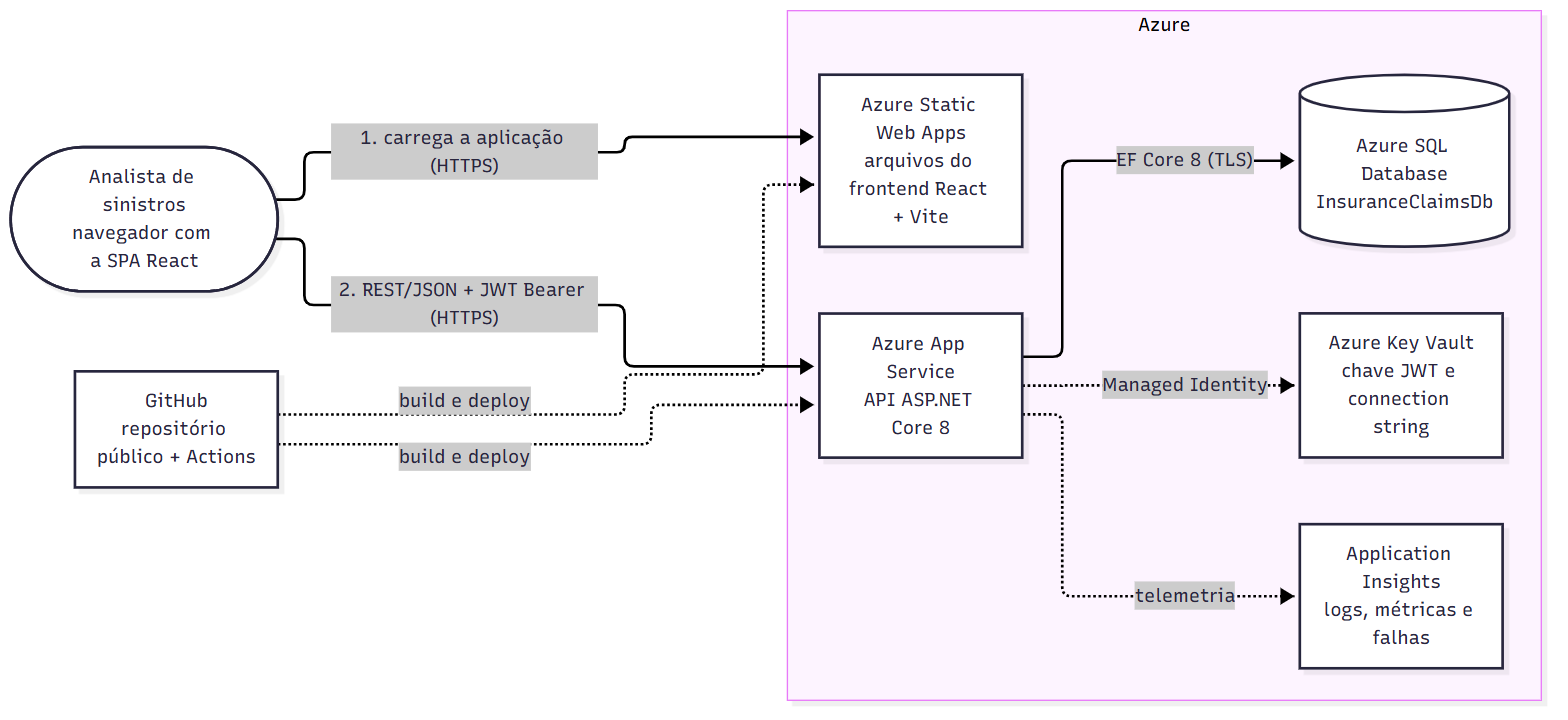
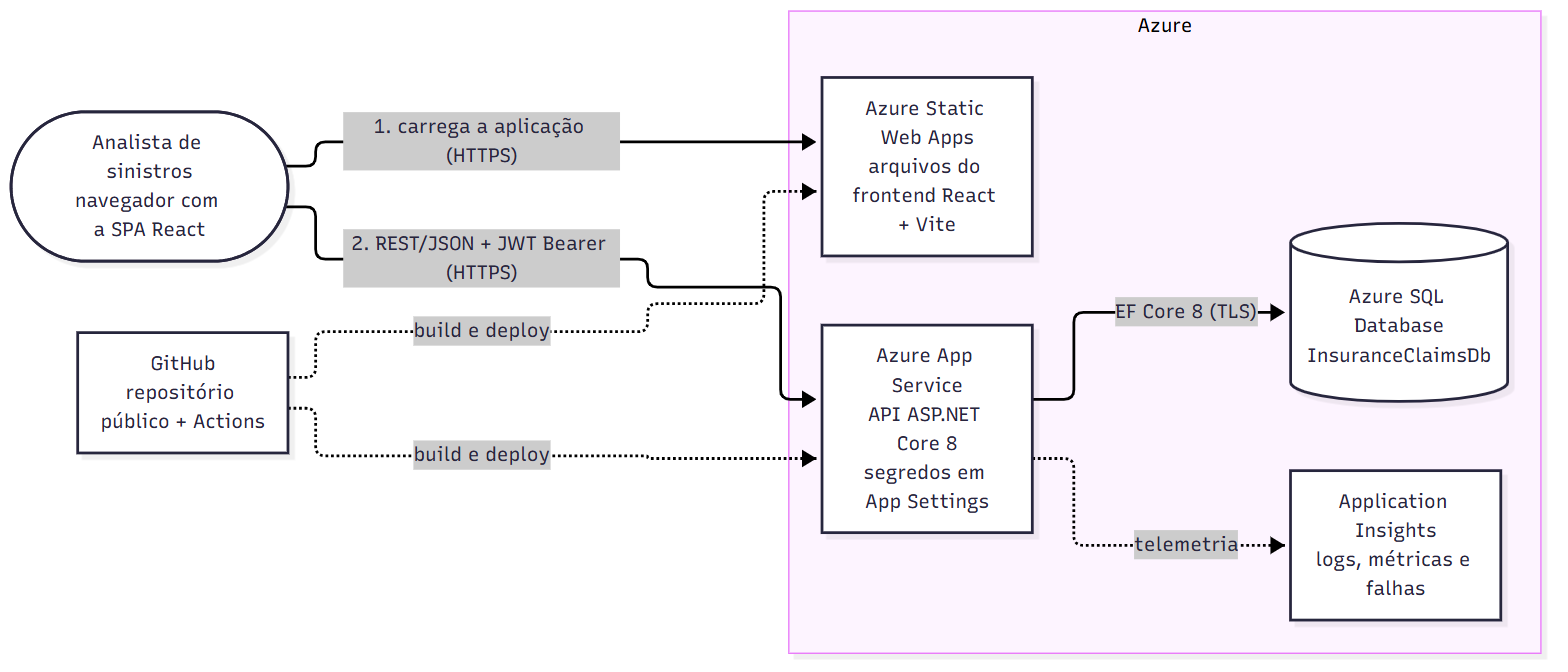
Docs: plano de migração para .NET 10 e desenho alinhado ao ambiente publicado

diff --git a/docs/migracao-dotnet10.md b/docs/migracao-dotnet10.md
@@ -1,0 +1,81 @@
+# Migração para .NET 10 LTS
+
+## Por quê
+
+O backend está no .NET 8 (LTS), cujo suporte termina em **10/11/2026**. Depois dessa data o runtime deixa de
+receber correções de segurança. O .NET 10 é a LTS atual, com suporte até novembro de 2028.
+
+A migração ficou fora da entrega do desafio por decisão de escopo: trocar runtime e pacotes em cima da entrega
+é risco sem retorno para o objetivo avaliado. Este documento deixa o caminho mapeado.
+
+## Escopo e esforço
+
+- Só o backend muda. O frontend (React/Vite) não depende da versão do .NET.
+- Quatro projetos (`Domain`, `Application`, `Infrastructure`, `Api`), sem uso de APIs obsoletas ou de
+  bibliotecas de terceiros além do Swashbuckle.
+- Esforço estimado: 1 a 2 horas, incluindo validação. A arquitetura em camadas mantém a mudança contida em
+  target framework e versões de pacotes; nenhuma regra de negócio é afetada.
+
+## Pré-requisitos
+
+- SDK do .NET 10 instalado (`dotnet --list-sdks` deve listar `10.0.x`).
+- API local parada, para o build não falhar por arquivo em uso.
+- Branch própria (`feat/dotnet-10`), para a `main` continuar publicável.
+
+## Passo a passo
+
+1. **Target framework**: nos quatro arquivos `.csproj`, trocar `<TargetFramework>net8.0</TargetFramework>`
+   por `<TargetFramework>net10.0</TargetFramework>`.
+
+2. **Pacotes** (`dotnet add package ... --version 10.x` ou edição direta dos `.csproj`):
+
+   | Projeto | Pacote | De | Para |
+   | --- | --- | --- | --- |
+   | Infrastructure | `Microsoft.EntityFrameworkCore.SqlServer` | 8.0.11 | 10.x |
+   | Infrastructure, Api | `Microsoft.EntityFrameworkCore.Design` | 8.0.11 | 10.x |
+   | Api | `Microsoft.AspNetCore.Authentication.JwtBearer` | 8.0.15 | 10.x |
+   | Api | `Microsoft.AspNetCore.OpenApi` | 8.0.15 | 10.x |
+   | Api | `Swashbuckle.AspNetCore` | 6.6.2 | versão mais recente compatível com .NET 10 |
+
+   Alternativa para o Swagger: o ASP.NET Core 9+ gera o documento OpenAPI nativamente com
+   `Microsoft.AspNetCore.OpenApi`; o Swashbuckle passaria a servir só a interface, ou seria substituído por
+   uma UI como Scalar. Decisão a tomar no momento da migração.
+
+3. **Ferramenta de migrations**: em `backend/.config/dotnet-tools.json`, atualizar `dotnet-ef` para `10.x`
+   e rodar `dotnet tool restore`.
+
+4. **Build**: `dotnet restore` e `dotnet build backend/InsuranceClaims.sln`. Corrigir avisos e erros conforme
+   as notas de mudanças incompatíveis do EF Core 9 e 10 e do ASP.NET Core 9 e 10. Pelo conjunto de recursos
+   usado (DbContext com Fluent API, migrations, JWT Bearer, controllers, ProblemDetails, PBKDF2), a expectativa
+   é de nenhuma alteração de código.
+
+5. **Modelo do EF Core**: rodar `dotnet ef migrations has-pending-model-changes --project
+   InsuranceClaims.Infrastructure --startup-project InsuranceClaims.Api`. Se não houver mudanças, nenhuma
+   migration nova é necessária; o `ProductVersion` gravado no snapshot pode ser atualizado quando a próxima
+   migration for criada.
+
+6. **Publicação**: em `.github/workflows/deploy-api.yml`, trocar `dotnet-version: 8.0.x` por `10.0.x`.
+   No App Service, em **Configuração > Configurações gerais > Pilha**, selecionar **.NET 10**.
+
+7. **Documentação**: atualizar as referências a ".NET 8" nos READMEs, no desenho de solução e no guia de
+   publicação.
+
+## Validação
+
+1. `dotnet build` sem avisos novos.
+2. API local no ar; `GET /health`, `GET /swagger` e login funcionando.
+3. `backend/scripts/SmokeTest.ps1` passando (71 verificações) contra a API local e, depois do deploy,
+   contra a URL da Azure.
+4. Frontend publicado operando normalmente: o contrato da API não muda.
+
+## Riscos e mitigação
+
+- **Pacote de terceiros sem versão compatível** (Swashbuckle): mitigado pela alternativa do OpenAPI nativo.
+- **Mudança de comportamento de consultas do EF Core** entre versões: coberta pelo smoke test, que exercita
+  filtros, paginação, dashboard e unicidade.
+- **Runtime do App Service**: a troca da pilha é reversível na mesma tela.
+
+## Plano de retorno
+
+Reverter o merge da branch (`git revert`) e voltar a pilha do App Service para .NET 8. Como não há migration
+nova nem mudança de contrato, o banco e o frontend não precisam de ação.

diff --git a/docs/desenho-solucao.md b/docs/desenho-solucao.md
@@ -7,7 +7,7 @@ Este documento apresenta três visões: a arquitetura na Azure, as camadas da ap
 
 ## 1. Arquitetura na Azure
 
-> A aplicação foi construída para esta arquitetura: configuração por variáveis de ambiente, nenhum segredo
+> A aplicação está publicada nesta arquitetura: configuração por variáveis de ambiente, nenhum segredo
 > no repositório, banco compatível com Azure SQL e workflows de publicação no repositório.
 > O passo a passo da publicação está em [publicacao-azure.md](publicacao-azure.md); as URLs do ambiente
 > publicado ficam na descrição do repositório. A aplicação também roda localmente, com SQL Server Express.
@@ -20,16 +20,14 @@ flowchart LR
     subgraph azure["Azure"]
         direction TB
         swa["Azure Static Web Apps<br/>arquivos do frontend React + Vite"]
-        api["Azure App Service<br/>API ASP.NET Core 8"]
+        api["Azure App Service<br/>API ASP.NET Core 8<br/>segredos em App Settings"]
         sql[("Azure SQL Database<br/>InsuranceClaimsDb")]
-        kv["Azure Key Vault<br/>chave JWT e connection string"]
         ai["Application Insights<br/>logs, métricas e falhas"]
     end
 
     user -->|"1. carrega a aplicação (HTTPS)"| swa
     user -->|"2. REST/JSON + JWT Bearer (HTTPS)"| api
     api -->|"EF Core 8 (TLS)"| sql
-    api -.->|"Managed Identity"| kv
     api -.->|"telemetria"| ai
     gh -.->|"build e deploy"| swa
     gh -.->|"build e deploy"| api
@@ -38,11 +36,13 @@ flowchart LR
 | Componente | Papel na solução | Motivo da escolha |
 | --- | --- | --- |
 | Azure Static Web Apps | Entrega os arquivos estáticos do frontend | O frontend é uma SPA; não precisa de servidor próprio |
-| Azure App Service | Hospeda a API ASP.NET Core 8 | Serviço gerenciado para .NET, configurado por App Settings |
+| Azure App Service | Hospeda a API ASP.NET Core 8; connection string e chave JWT ficam em App Settings | Serviço gerenciado para .NET; a configuração fica fora do código e do repositório |
 | Azure SQL Database | Banco de dados relacional | Compatível com o SQL Server usado localmente; as mesmas migrations se aplicam |
-| Azure Key Vault | Guarda a chave JWT e a connection string | Segredos fora do código; o App Service lê com Managed Identity, sem senha |
 | Application Insights | Logs, métricas e rastreamento de falhas | Diagnóstico em produção sem acesso ao servidor |
 | GitHub Actions | Build e publicação | Os workflows em `.github/workflows` fazem build e deploy a cada push em `main` |
+
+Evolução prevista: mover os segredos das App Settings para o Azure Key Vault, lido pelo App Service com
+Managed Identity. O procedimento está descrito como etapa opcional em [publicacao-azure.md](publicacao-azure.md).
 
 O navegador fala com dois destinos: baixa a aplicação do Static Web Apps e depois chama a API diretamente.
 Por isso a API libera, por CORS, somente a origem do frontend, configurada em `Cors:AllowedOrigins`.

diff --git a/docs/publicacao-azure.md b/docs/publicacao-azure.md
@@ -23,6 +23,12 @@ Nomes usados neste guia. Troque `<sufixo>` por algo único, como suas iniciais e
 A ordem dos passos importa: o banco precisa existir e estar migrado antes da primeira subida da API,
 porque a API consulta a tabela de usuários ao iniciar.
 
+**Como ficou neste projeto.** A assinatura não tinha cota para o plano gratuito F1 do App Service em
+Brazil South, então API e banco foram criados em **West US 3**, na mesma região, para as consultas ao
+banco não cruzarem continentes. A oferta gratuita do Azure SQL falhou na recriação e o banco ficou no tier
+**Básico** (5 DTU, cerca de 5 USD/mês). O App Service está no F1 gratuito, o Static Web Apps no plano
+Free e o Application Insights ligado. O Key Vault (passo 10) não foi feito; os segredos estão em App Settings.
+
 ## 1. Azure SQL Database
 
 No portal, **Criar um recurso** > **SQL Database** > **Criar**.
@@ -199,8 +205,8 @@ gerenciada.
 
    Salve. A lista de variáveis mostra um indicador verde quando a referência foi resolvida.
 
-Se pular esta etapa, remova o Key Vault do diagrama e da tabela em `desenho-solucao.md`, para o desenho
-descrever só o que existe.
+Ao concluir esta etapa, inclua o Key Vault no diagrama e na tabela de `desenho-solucao.md`, para o desenho
+continuar descrevendo só o que existe.
 
 ## Custos
 

diff --git a/README.md b/README.md
@@ -122,8 +122,11 @@ Os detalhes e as limitações de cada parte estão nos READMEs do [backend](back
 
 ## Próximos passos
 
+- Migração para .NET 10 LTS: o .NET 8 sai de suporte em 10/11/2026. O plano, com passos, validação e
+  plano de retorno, está em [docs/migracao-dotnet10.md](docs/migracao-dotnet10.md).
 - Perfis de acesso: um perfil aprovador, único que pode aprovar ou rejeitar sinistros, e um perfil operador
   para as demais operações, com a regra aplicada no backend e refletida na interface.
+- Segredos no Azure Key Vault, lidos pelo App Service com Managed Identity, no lugar das App Settings.
 - Testes automatizados de unidade e integração.
 - Refresh token ou autenticação corporativa com Microsoft Entra ID.
 - Gestão de usuários e recuperação de senha.
